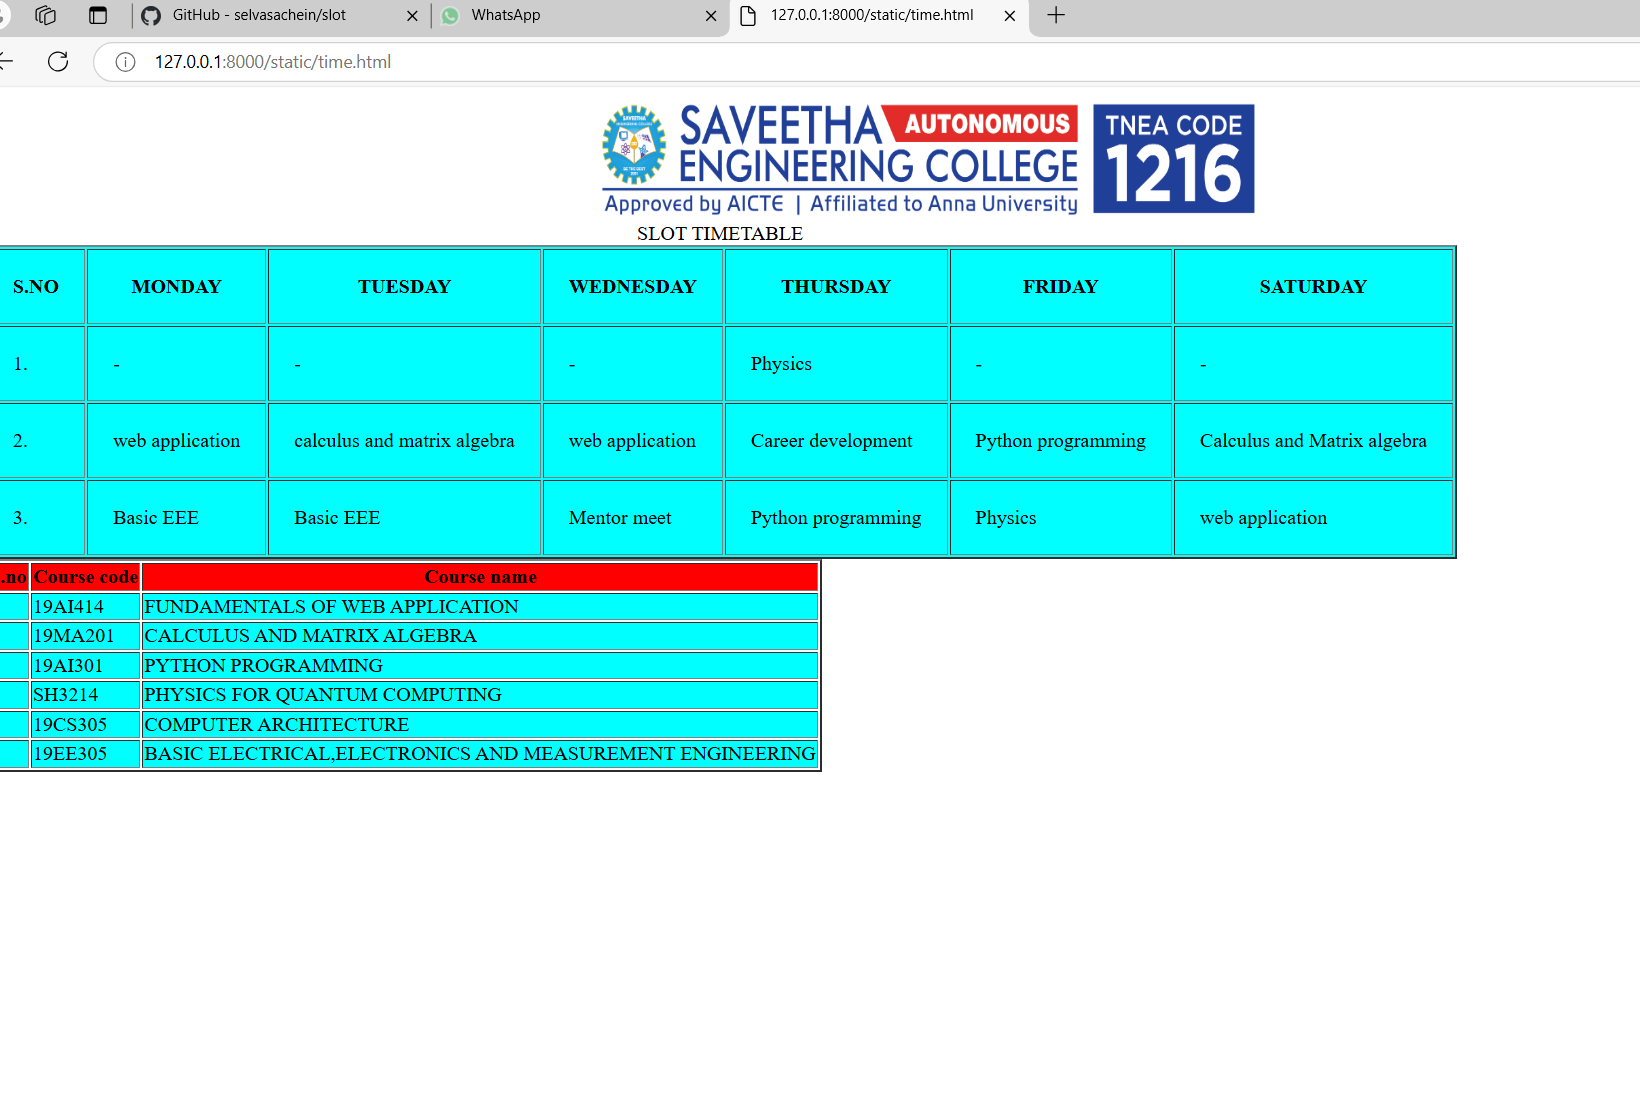
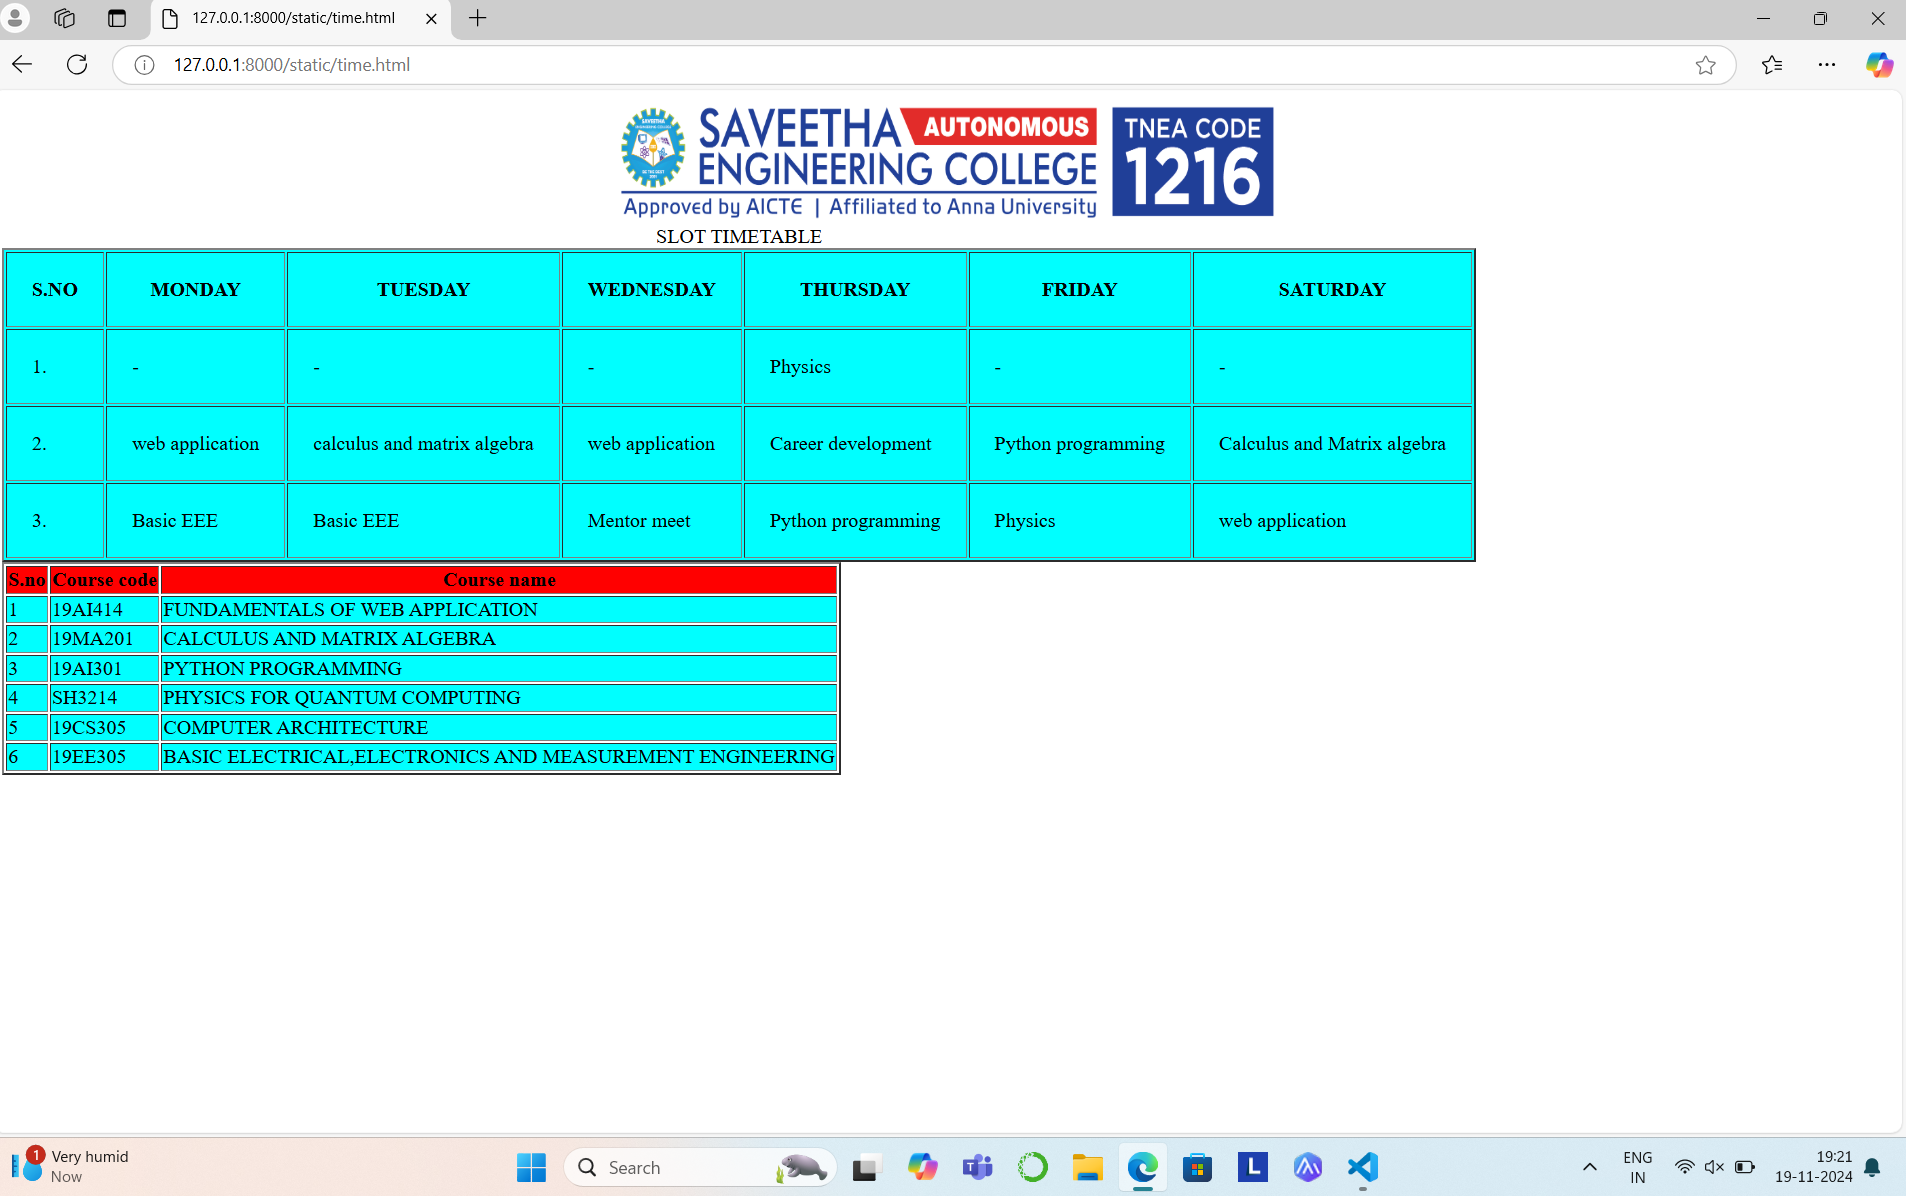
Success

diff --git a/slottimetable/slot/static/time.html b/slottimetable/slot/static/time.html
@@ -1,7 +1,7 @@
 <html>
     <body>
         <center>
-            <img src="image.png" height="100" width="540">       
+            <img src="logo.png" height="100" width="540">       
         </center>
          <table border="2" bgcolor="cyan" cellpadding="20">
             <caption>
